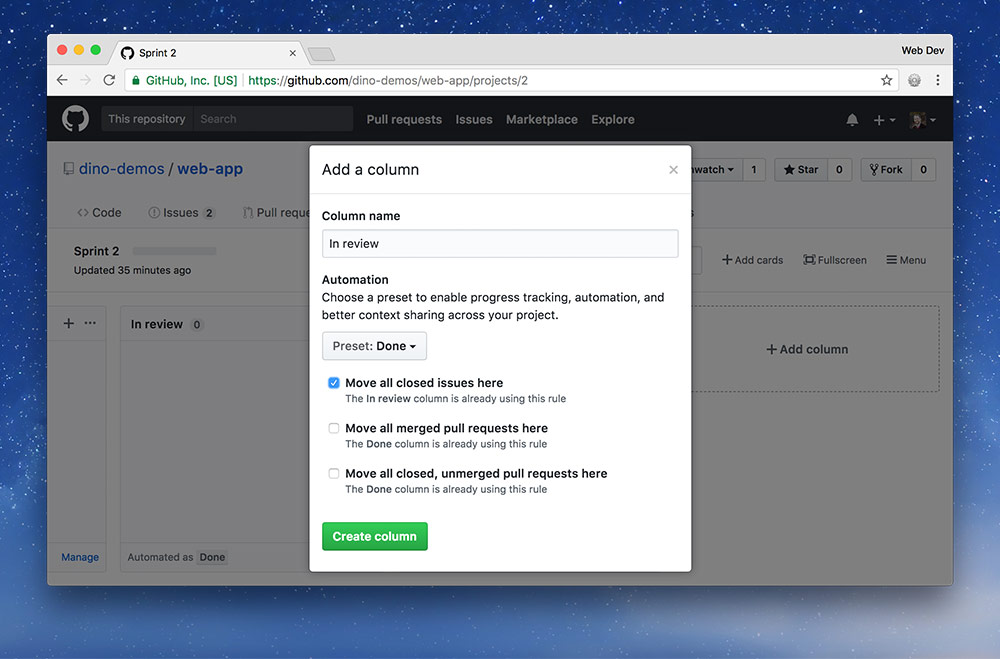
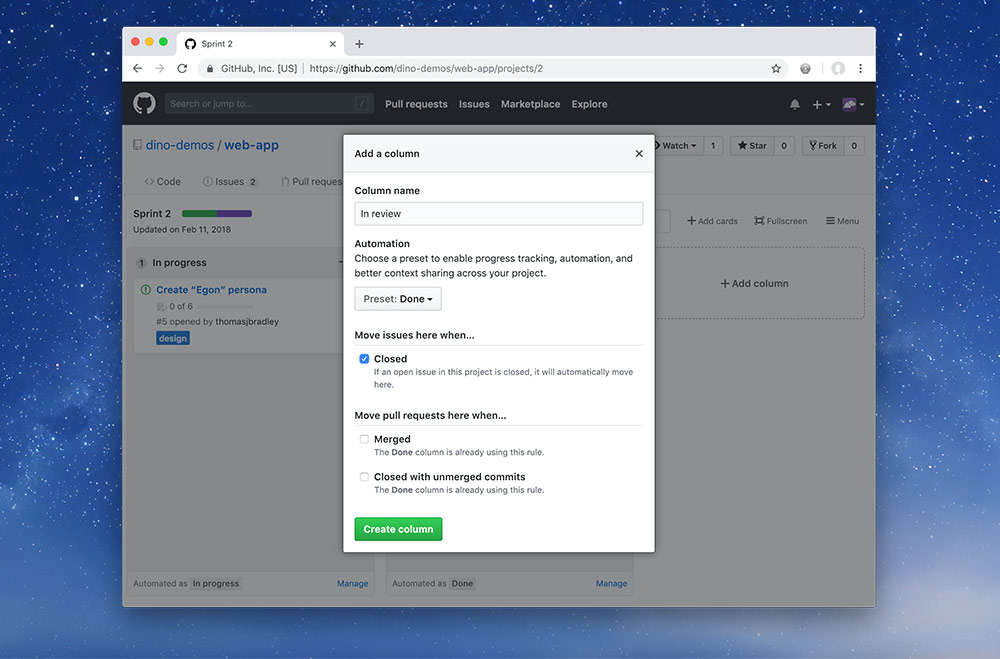
Replace a screenshot from GitHub to ease confusion

diff --git a/agile-project-planning.md b/agile-project-planning.md
@@ -111,7 +111,7 @@ steps:
       ![](automation.jpg)
 
       - Name the column “In review”
-      - Change its preset to be “Done” and select “Move all closed issues here”—**you’ll will be prompted to confirm: press “Yes”**
+      - Change its preset to be “Done” and select “Closed”—**you’ll will be prompted to confirm: press “Yes”**
       - Move the “In review” column so it’s between “In progress” and “Done”
 
       ![](board.jpg)
